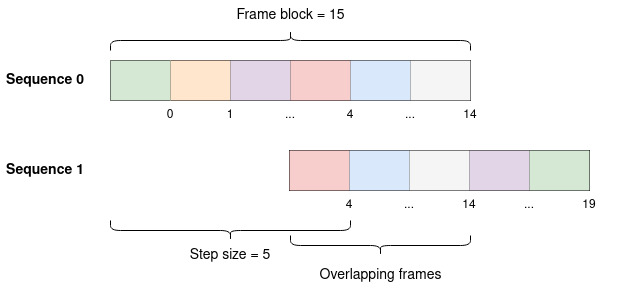
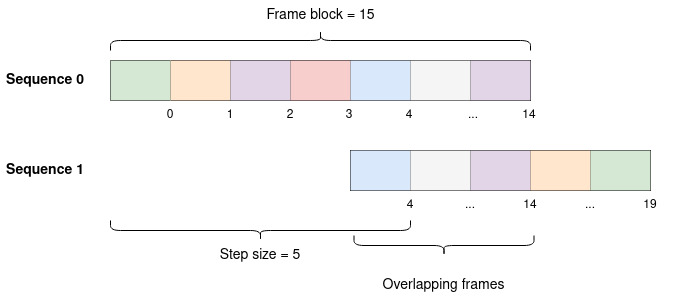
metriks

diff --git a/TFM/contenido/8adapt.tex b/TFM/contenido/8adapt.tex
@@ -30,22 +30,22 @@ En esta sección se realiza un estudio acerca de la configuración óptima de pa
 
 \begin{figure}
     \centering
-    \includegraphics[width=0.7\linewidth]{imagenes/SOLAPING.jpg}
+    \includegraphics[width=0.8\linewidth]{imagenes/SOLAPING.jpg}
     \caption{Ejemplo de funcionamiento del parámetro \textit{step\_size}}
     \label{fig:SOLAPING}
 \end{figure}
 
-\begin{itemize}
+\begin{description}
     \item[Umbral de Weibull (\textit{Tw})] Valor de umbral que determina si una entidad es \textbf{desconocida o no}. El rango probado es (0.05 0.1 0.25). No se muestran valores más altos, debido a que no presentan variaciones notorias en los resultados respecto al valor 0.25.
-    \item[Percentil (\textit{percent})] Valor del percentil aplicado en la obtención de la puntuación mínima de cada comité (). El rango probado es (25 50 75).
-    \item \textbf{Número de \acrshort{svm} (\textit{max\_svm})}: valor que representa el tamaño máximo de un comité. El rango probado es (1 3 7 10),  valores más altos implicarían un mayor coste computacional en cada iteración.
-    \item \textbf{Número de negativos (\textit{nneg})}: tamaño del conjunto de muestras negativas. El rango probado es (10 50). No se han podido probar valores más altos, debido a la escasez de muestras disponibles.
-    \item \textbf{Número de positivos}: establece el número de frames positivos que define a un comité. El tamaño se ha fijado en 5 frames, ya que en \cite{5samples} se ha demostrado que otorga buen rendimiento, al mismo tiempo que utiliza el mínimo de muestras posibles.
-    \item \textbf{Tamaño de secuencia (\textit{frame\_block})}: número de frames que forman una secuencia de vídeo. Se ha fijado el valor en 15 frames, que equivalen a 1,5 segundos de vídeo con cámaras funcionando a 10 Hz.
-    \item \textbf{Tamaño de salto (\textit{step\_size})}: establece el salto en el número de frames entre secuencias. Gracias a este parámetro, se obtiene un mayor número de secuencias a partir de un mismo vídeo de prueba. La figura \ref{fig:SOLAPING} muestra un ejemplo con tamaño de secuencia 15 y valor de \textit{step\_size} de 5 (que es el que se va a mantener para las pruebas).
-\end{itemize}
+    \item[Percentil (\textit{percent})] Valor del percentil aplicado en la obtención de la puntuación mínima de cada comité (en el apéndice \ref{sec:val} se explica el uso de los percentiles). El rango probado es (25 50 75).
+    \item[Número de \acrshort{svm}s (\textit{max\_svm})] Valor que representa el tamaño máximo de un comité. El rango probado es (1 3 7 10),  valores más altos implicarían un mayor coste computacional en cada iteración.
+    \item[Número de negativos (\textit{nneg})] Representa el tamaño del conjunto de muestras negativas. El rango probado es (10 50). No se han podido probar valores más altos, debido a la escasez de muestras disponibles.
+    \item[Número de positivos] Establece el número de muestras positivas que define a un comité. El tamaño se ha fijado en 5 muestras, ya que en \cite{5samples} se ha demostrado que otorga buen rendimiento, al mismo tiempo que utiliza el mínimo de muestras posibles.
+    \item[Tamaño de secuencia (\textit{frame\_block})] Número de frames que conforman una secuencia de vídeo. Se ha fijado el valor en 15 frames, que equivalen a 1,5 segundos de vídeo con las cámaras funcionando a 10 Hz.
+    \item[Tamaño de salto (\textit{step\_size})] Establece el salto en el número de frames entre secuencias. Gracias a este parámetro, se obtiene un mayor número de secuencias a partir de un mismo vídeo de prueba. La figura \ref{fig:SOLAPING} muestra un ejemplo con un tamaño de secuencia de 15 y un tamaño de salto de 5 (que es el que se va a mantener para las pruebas).
+\end{description}
 
-A continuación se exponen los resultados obtenidos para cada combinación en \textit{Open-Set} y \textit{Open-World} como una media de 5 ejecuciones. A modo de obtener más puntos para definir las distribuciones de Weibull, se ha expandido el sistema con \textbf{4 individuos} a mayores de los 6 presentes en el vídeo de prueba, cuyas muestras se han adquirido de la misma forma (imágenes de las cámaras Kinect). %TODO: poner fotos??? %Se inicializa cada comité con 5 frames representativos (que corresponde con el \textbf{tamaño de la plantilla}).
+A continuación se exponen los resultados obtenidos para cada combinación en \textit{Open-Set} y \textit{Open-World} como una media de 5 ejecuciones. A modo de obtener más puntos para definir las distribuciones de Weibull, se ha expandido el sistema con \textbf{4 individuos} a mayores de los 6 presentes en el vídeo de prueba, cuyas muestras se han adquirido de la misma forma (capturas de las cámaras Kinect). %TODO: poner fotos??? %Se inicializa cada comité con 5 frames representativos (que corresponde con el \textbf{tamaño de la plantilla}).
 
 \subsection{Modo \textit{Open-Set}}
 \label{sec:osparams}
@@ -54,7 +54,7 @@ A continuación se exponen los resultados obtenidos para cada combinación en \t
 
 La tabla \ref{tab:osparams} muestra los 5 mejores resultados de las pruebas del análisis de parámetros ordenados según la métrica \textit{F1\_score}.
 
-El parámetro \textbf{\textit{percent}} muestra una tendencia clara al valor \textbf{25}. Un percentil de 25 implica escoger las 2/3 primeras \acrshort{svm} para otorgar la puntuación final del comité. En el caso de este sistema, cuando un comité se activa con sus muestras, un porcentaje no precisamente bajo (aproximadamente el 30-40\%) de las \acrshort{svm} devuelven una respuesta \textbf{negativa} frente a las muestras de su propia clase, mientras que otra parte del comité devuelve valores cercanos al 0 (lo que se podría considerar como indecisión en la respuesta), por lo que realmente \textbf{no se compone una mayoría} de respuestas positivas. Por este motivo, el sistema prefiere un \textbf{percentil bajo} (25) frente a la \textbf{votación por mayoría} (mediana, percentil 75). Los \textbf{valores extremos} (0 o 100) en el percentil implican en un \textbf{bajo \textit{recall}}, un percentil de 100 implica obtener el mayor valor (que se corresponde con la peor coincidencia), este valor puede proceder de una \acrshort{svm} de otro individuo (pudo incluirse debido a un reconocimiento erróneo anterior), que hace que el comité no se active ante sus muestras.\\
+El parámetro \textbf{\textit{percent}} muestra una tendencia clara al valor \textbf{25}. Un percentil de 25 implica escoger las 2/3 primeras \acrshort{svm} para otorgar la puntuación final del comité. En el caso de este sistema, cuando un comité se activa con sus muestras, un porcentaje no precisamente bajo (aproximadamente el 30-40\%) de las \acrshort{svm} devuelven una respuesta \textbf{negativa} frente a las muestras de su propia clase, mientras que otra parte del comité devuelve valores cercanos al 0 (lo que se podría considerar como indecisión en la respuesta), por lo que realmente \textbf{no se compone una mayoría} de respuestas positivas. Por este motivo, el sistema prefiere un \textbf{percentil bajo} (25) frente a la \textbf{votación por mayoría} (mediana, percentil 75). Los \textbf{valores extremos} en el percentil implican en un \textbf{bajo \textit{recall}}, un percentil de 100 implica obtener el mayor valor (que se corresponde con la peor coincidencia), este valor puede proceder de una \acrshort{svm} de otro individuo (pudo incluirse debido a un reconocimiento erróneo previo), que hace que el comité no se active ante sus muestras. Lo mismo sucede con un percentil de 0.\\
 \indent Para el parámetro \textbf{\textit{nneg}} se considera más efectivo un tamaño de 50 del conjunto de negativos frente al valor de 10, ya que con 50 muestras se puede albergar un \textbf{mayor número de individuos} y, por ende, la \acrshort{svm} puede definir mejor el hiperplano que separa las muestras positivas de las negativas, luego es capaz de \textbf{discriminar mejor} dichas muestras.\\
 \indent En cuanto al valor del parámetro \textbf{\textit{Tw}} no existe una tendencia clara. Atendiendo a los valores de \textit{precision} y \textit{recall}, se puede apreciar como al \textbf{aumentar el umbral de Weibull}, el \textbf{\textit{recall} aumenta a costa de la precisión}, debido a que se está agregando cierta tolerancia de la mejor puntuación a pertenecer a la distribución de puntuaciones no coincidentes, por lo tanto, \textbf{menos desconocidos} se detectan (aumenta el \textit{recall}) a costa de aceptar un mayor número de \textbf{predicciones erróneas} (baja la precisión), un valor bajo demuestra justo lo contrario. Un valor de \textbf{0.1} parece ser la opción \textbf{más equilibrada} entre un excelente \textit{recall} y una excelente precisión para \textit{Open-Set}.\\
 \indent En el caso del parámetro \textbf{\textit{max\_svm}}, tampoco es seguro qué único valor escoger. Puede afirmarse que un valor alto devuelve resultados más robustos, esto se debe a que se implica un mayor número de \acrshort{svm} en cada reconocimiento, lo que da lugar a más diversidad y por lo tanto a unos comités que se activan en una mayor cantidad de diversas situaciones de la entidad.

diff --git a/TFM/anexos/metriks.tex b/TFM/anexos/metriks.tex
@@ -7,40 +7,39 @@
 \label{sec:metriks}
 
 Para evaluar la clasificación de los modelos de visión artificial del proyecto, se empleó la famosa matriz de confusión, que es una tabla compuesta por los siguientes \textit{items}:
-\begin{itemize}
-    \item \textit{\textbf{True Positive (TP)}}: predicción positiva correcta. Para los modelos de detección, sería detectar correctamente a una persona, mientras que para los modelos de reconocimiento, sería asignar la etiqueta correcta a la persona detectada.
-    \item \textit{\textbf{True Negative (TN)}}: predicción negativa correcta. Para los modelos de detección, sería no detectar correctamente a una persona, lo que carece de sentido a la hora de evaluar un buen detector. Para los modelos de reconocimiento, sería predecir que la clase (persona en este caso) no pertenece a ninguna de las registradas, es decir, predecir un \textbf{desconocido}. Este componente \textbf{no se llega a utilizar} para las pruebas de detección, por los motivos comentados, ni para las de reconocimiento, ya que siempre se asume la entidad desconocida como \textbf{incorrecta}.
-    \item \textit{\textbf{False Positive (FP)}}: predicción positiva errónea. Para los modelos de detección, sería detectar una persona donde no la hay, mientras que para los modelos de reconocimiento, sería otorgar una etiqueta incorrecta a la persona detectada.
-    \item \textit{\textbf{False Negative (FN)}}: predicción negativa errónea. Para los modelos de detección, sería no detectar a la persona presente, mientras que para los modelos de reconocimiento, sería asignar la entidad de desconocido a una persona ya registrada en el sistema.
-\end{itemize}
+\begin{description}
+    \item[True Positive (TP)] Predicción positiva correcta. Para los modelos de detección, sería detectar correctamente a una persona, mientras que para los modelos de reconocimiento sería asignar la etiqueta correcta a la persona detectada.
+    \item[True Negative (TN)] Predicción negativa correcta. Para los modelos de detección, sería no detectar correctamente a una persona, lo que carece de sentido. Para los modelos de reconocimiento, sería predecir que la persona no pertenece a ninguna de las ya registradas, es decir, predecir un \textbf{desconocido}. Este componente \textbf{no se llega a utilizar} para las pruebas.
+    \item[False Positive (FP)] Predicción positiva errónea. Para los modelos de detección, sería detectar una persona donde no la hay, mientras que para los modelos de reconocimiento sería otorgar una etiqueta incorrecta a la persona detectada.
+    \item[False Negative (FN)] Predicción negativa errónea. Para los modelos de detección, sería no detectar a la persona presente, mientras que para los modelos de reconocimiento sería asignar la entidad de desconocido a una persona ya registrada en el sistema.
+\end{description}
 
-Estos componentes se aplicarán a los \glspl{dataset} de prueba formados a partir de los vídeos grabados. En un entorno real de operación no sería posible aplicar dichas métricas por falta de un \textit{\gls{gt}}.
+A continuación, se exponen las \textbf{métricas de evaluación} utilizadas para los modelos de detección y reconocimiento.
 
 \section{Modelos de detección}
 \label{subsec:det}
 
-\begin{itemize}
-    \item \textbf{\textit{Precision}}: \textbf{cuando el modelo detecta un objeto}, cuantas veces la detección corresponde con una persona presente.
-          \begin{equation}
-              Precision = \frac{TP}{TP + FP}
-          \end{equation}
-    \item \textbf{\textit{Recall}}: \textbf{cuando realmente hay una persona}, cuantas veces el modelo detecta a esa persona.
-          \begin{equation}
-              Recall = \frac{TP}{TP + FN}
-          \end{equation}
-    \item \textbf{\textit{F1\_score}}: se calcula como una media armónica entre el \textit{recall} (proporción de objetos detectados) y el \textit{precision} (proporción de detecciones correctas) \cite{andrew}.
-          \begin{equation}
-              F1\_score = 2* \frac{Precision * Recall}{Precision + Recall}
-          \end{equation}
-
-\end{itemize}
+\begin{description}
+    \item[Precision] \textbf{Cuando el modelo detecta un objeto}, cuantas veces la detección corresponde con una persona presente.
+        \begin{equation}
+            Precision = \frac{TP}{TP + FP}
+        \end{equation}
+    \item[Recall] \textbf{Cuando realmente hay una persona}, cuantas veces el modelo detecta a esa persona.
+        \begin{equation}
+            Recall = \frac{TP}{TP + FN}
+        \end{equation}
+    \item[F1\_score] Se calcula como una media armónica entre el \textit{recall} (proporción de personas detectadas) y el \textit{precision} (proporción de detecciones correctas) \cite{andrew}.
+        \begin{equation}
+            F1\_score = 2* \frac{Precision * Recall}{Precision + Recall}
+        \end{equation}
+\end{description}
 
 \section{Modelos de reconocimiento}
 \label{subsec:recon}
 
 Las métricas de evaluación se calculan igual que en los modelos de detección. A continuación se exponen las diferencias en el significado:
-\begin{itemize}
-    \item \textbf{\textit{Precision}}: \textbf{dentro de las detecciones realizadas por el respectivo modelo}, cuantas veces se ha reconocido correctamente al individuo.
-    \item \textbf{\textit{Recall}}: \textbf{dentro del conjunto de reconocimientos correctos y desconocidos}, cuantas veces se ha reconocido al individuo correctamente. Dicho en otras palabras, el \textit{recall} mide la confianza del propio sistema a la hora de asignar identidades (el desconocido se asume como una indecisión del sistema de asignar una identidad en pruebas en las que únicamente aparecen personas conocidas).
-    \item \textbf{\textit{F1\_score}}: lo mismo que en los modelos de detección.
-\end{itemize}
+\begin{description}
+    \item[Precision] \textbf{Cuando se reconoce a una persona como conocida}, cuantas veces se ha reconocido correctamente su entidad.
+    \item[Recall] \textbf{Cuando se reconoce a una persona}, cuantas veces se ha reconocido correctamente su entidad.
+    \item[F1\_score] Lo mismo que en los modelos de detección.
+\end{description}

diff --git a/TFM/contenido/tables/tests/osparams.tex b/TFM/contenido/tables/tests/osparams.tex
@@ -1,4 +1,4 @@
-\begin{table}[]
+\begin{table}[tbp]
     \centering
     \begin{tabular}{c|c|c|c|c|c}
         \hline

diff --git a/TFM/contenido/tables/tests/owparams.tex b/TFM/contenido/tables/tests/owparams.tex
@@ -1,4 +1,4 @@
-\begin{table}[]
+\begin{table}[tbp]
     \centering
     \begin{tabular}{c|c|c|c|c|c}
         \hline

diff --git a/TFM/contenido/tables/tests/osinittab.tex b/TFM/contenido/tables/tests/osinittab.tex
@@ -1,4 +1,4 @@
-\begin{table}[]
+\begin{table}[tbp]
     \centering
     \begin{tabular}{c|cc|cc}
         \hline

diff --git a/TFM/contenido/tables/tests/owinittab.tex b/TFM/contenido/tables/tests/owinittab.tex
@@ -1,4 +1,4 @@
-\begin{table}[]
+\begin{table}[tbp]
     \centering
     \begin{tabular}{c|cc|cc}
         \hline
